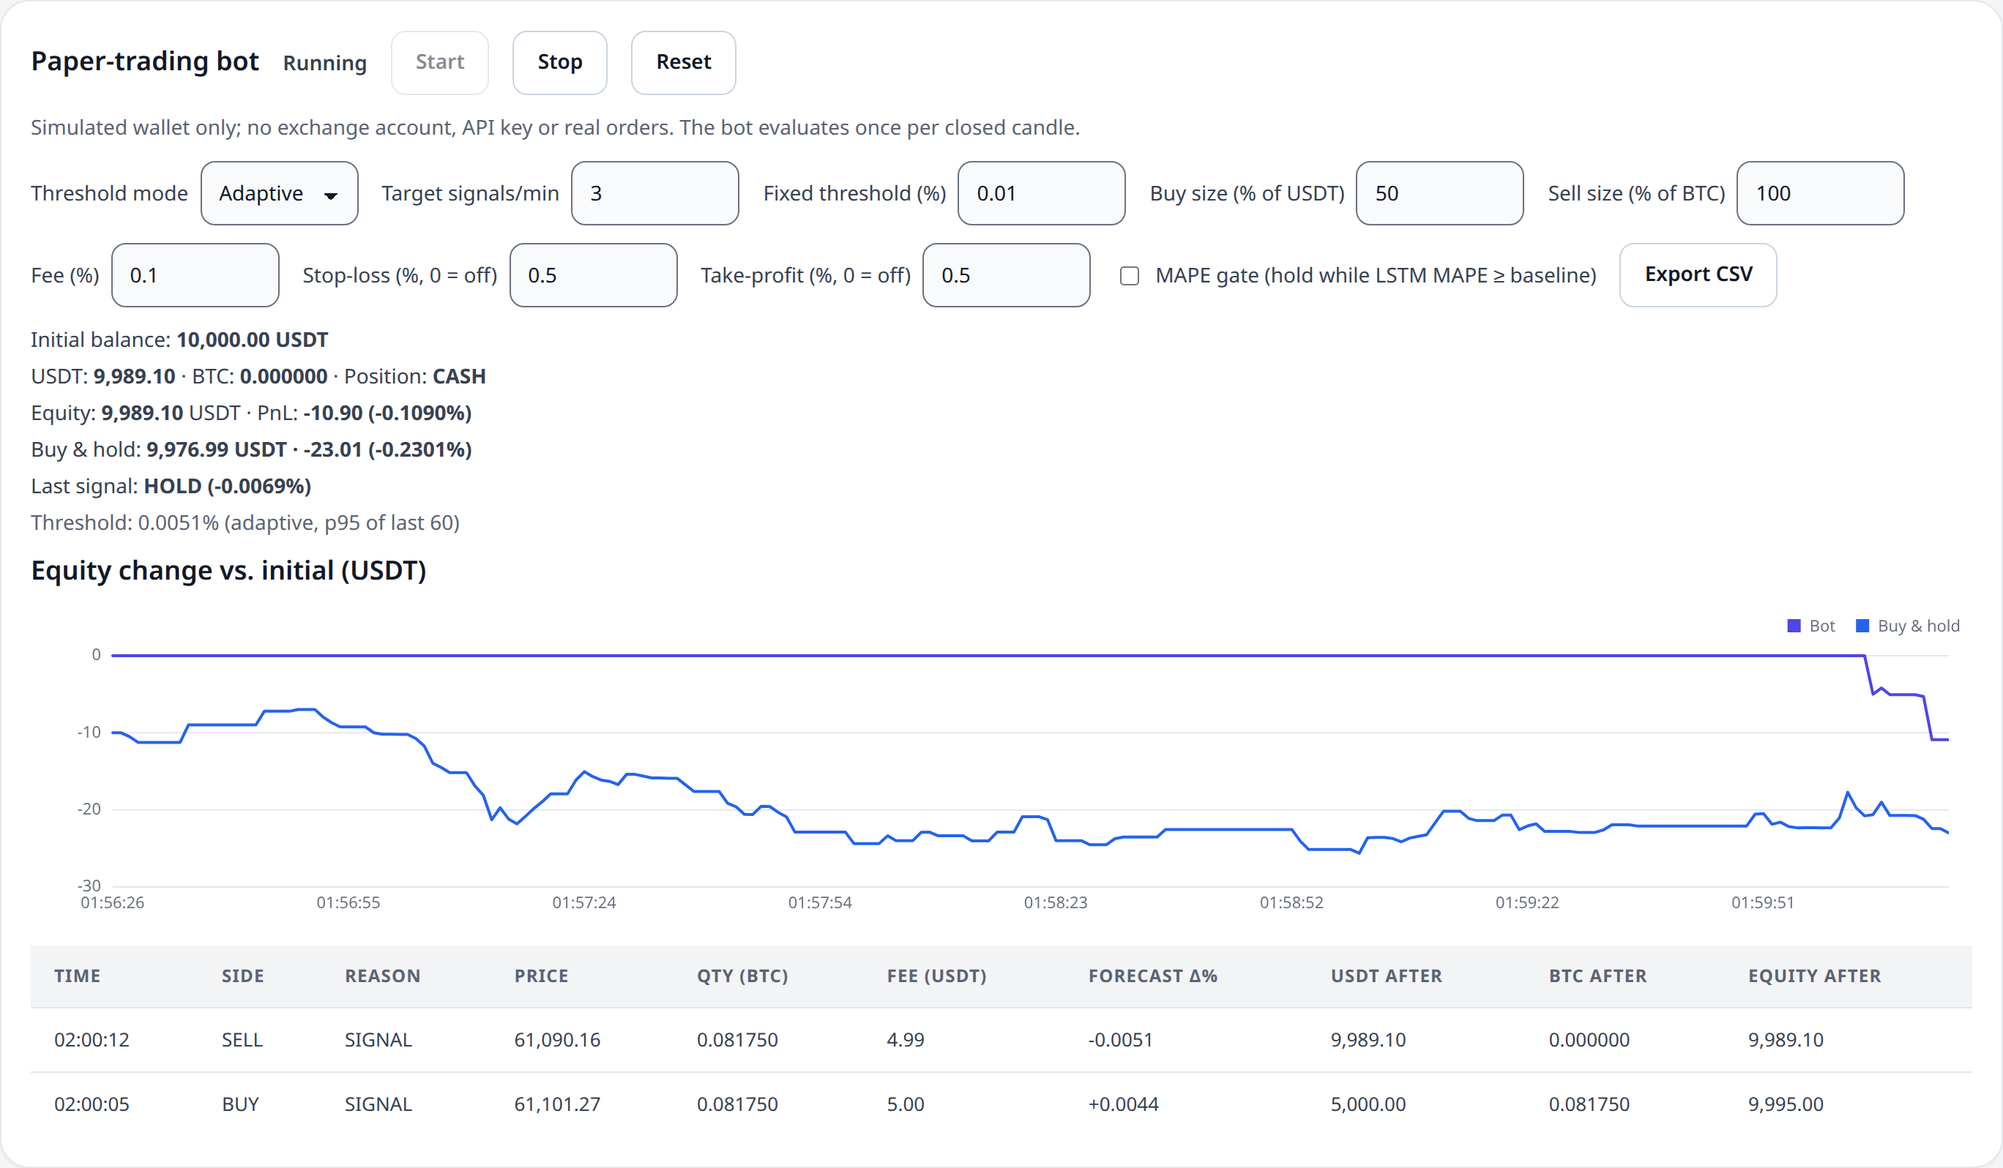
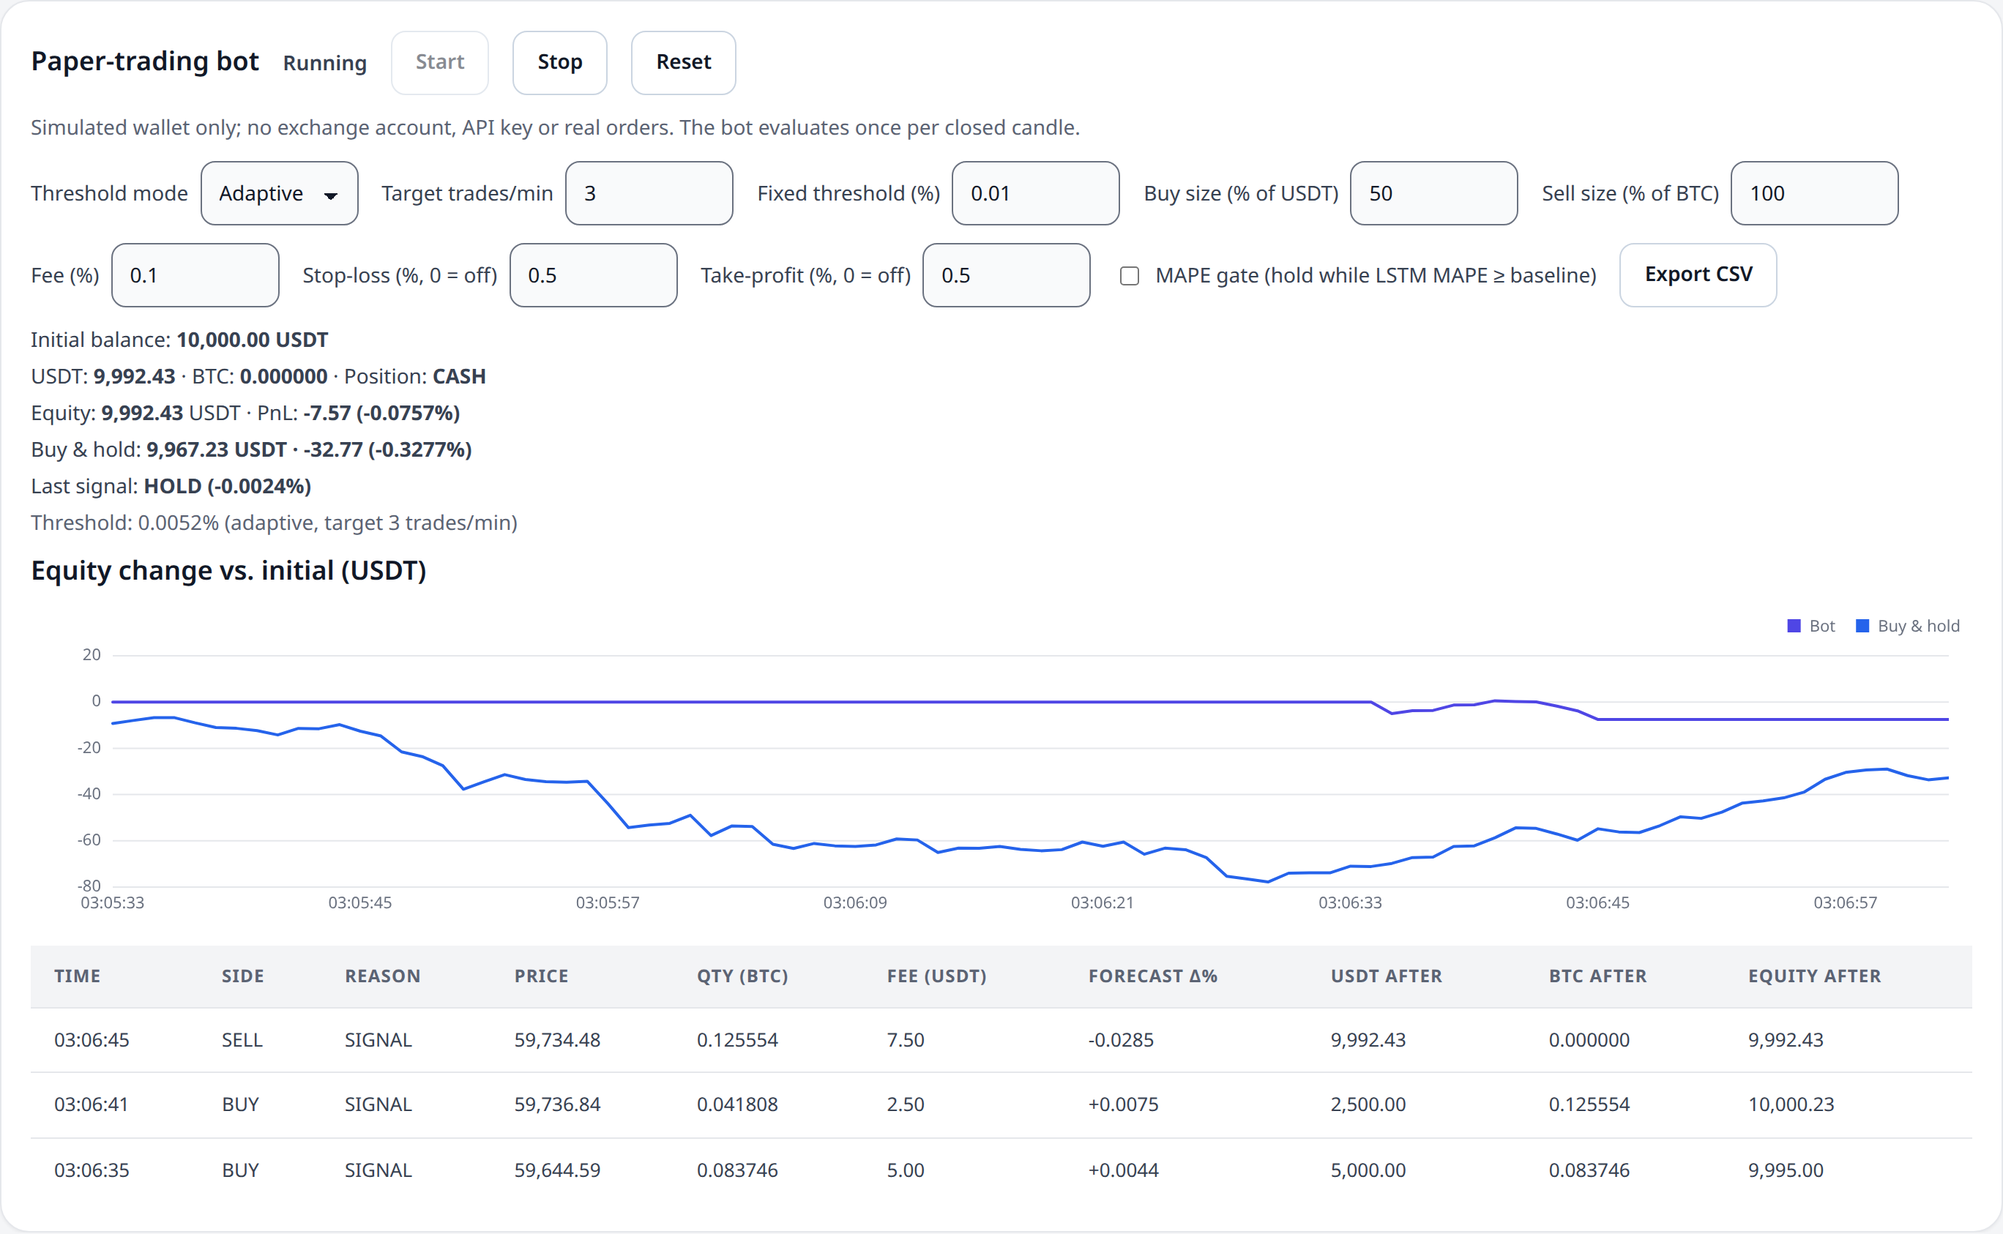
lstm-trading-bot: retake screenshots with trade-rate controller

diff --git a/lstm-trading-bot/README.md b/lstm-trading-bot/README.md
@@ -21,17 +21,19 @@ SELL  if changePct <  -threshold  and BTC * sell% * price >= 10 USDT
 HOLD  otherwise
 ```
 
-**Adaptive threshold (default).** On 1-second candles the forecast change is tiny: over a 150 s measurement `|changePct|` had p50 0.0010%, p75 0.0018%, p90 0.0038%, p95 0.0046% and a maximum of 0.0068%, so a fixed 0.01% never fires and no single fixed value holds a steady trade rate while volatility drifts. In *adaptive* mode the threshold is a rolling percentile of recent `|changePct|` values, chosen so that about `target` candles per minute exceed it:
+**Adaptive threshold (default).** On 1-second candles the forecast change is tiny: over a 150 s measurement `|changePct|` had p50 0.0010%, p75 0.0018%, p90 0.0038%, p95 0.0046% and a maximum of 0.0068%, so a fixed 0.01% never fires and no single fixed value holds a steady trade rate while volatility drifts. In *adaptive* mode the threshold `theta` is steered by a **feedback controller on the bot's actual trades** (a multiplicative stochastic-approximation update), so that about `target` trades per minute happen:
 
 ```
-candlesPerMinute = 60000 / intervalMs               // 1s -> 60, 1m -> 1
-quantile         = 1 - targetSignalsPerMin / candlesPerMinute
-quantile <= 0    -> threshold = 0                   // every candle may signal (BUY/SELL stay strict: > +t, < -t)
-otherwise        -> threshold = quantile of the last <= 60 |changePct| values
-                    (sorted ascending, index = floor(quantile * n), clamped to n - 1)
+candlesPerMinute = 60000 / intervalMs                    // 1s -> 60, 1m -> 1
+p                = min(1, targetTradesPerMin / candlesPerMinute)
+warm-up          : the first 20 evaluated candles use the fixed threshold and collect |changePct|
+init             : theta = p90 of the 20 samples (sorted ascending, index floor(0.9 * n)), or the fixed threshold if that is 0
+every candle     : decide with theta (BUY if changePct > theta, SELL if < -theta, same position and dust rules)
+                   traded = 1 if the candle produced any trade (SIGNAL, STOP_LOSS or TAKE_PROFIT), else 0
+                   theta  = clamp(theta * exp(0.3 * (traded - p)), 0.00001 %, 1 %)
 ```
 
-The threshold is computed from the window *before* the current candle's `|changePct|` is added. Warm-up: with fewer than 20 samples the fixed threshold applies (the live readout says "warming up n/20, using fixed"). Changing the timeframe clears the window, and Reset clears it too. In *fixed* mode the window is ignored. A signal is still only a trade when the wallet allows it (a SELL signal while holding no BTC is a HOLD), so trades per minute can be lower than signals per minute.
+A trade raises theta (fewer trades follow), a candle without a trade lowers it slightly, and the two balance where the trade probability per candle equals `p`. It targets *trades* rather than *signals* because a signal is only a trade when the wallet allows it (a SELL signal while holding no BTC is a HOLD, and a BUY is skipped once the free USDT is dust), so a signal-based percentile cannot hold a trade rate; feeding back the real outcome absorbs those effects and any drift in forecast scale or bias. While warming up the live readout says "warming up n/20, using fixed". Changing the timeframe or pressing Reset clears theta and the samples and goes back to warm-up. In *fixed* mode the controller is ignored.
 
 Orders execute at the latest closed candle price. BUY spends a percentage of free USDT, SELL sells a percentage of held BTC. The 10 USDT minimum order prevents dust orders after repeated 50% buys. A candle is evaluated once (keyed by its open time), even though `tick()` runs every second.
 
@@ -40,13 +42,14 @@ Orders execute at the latest closed candle price. BUY spends a percentage of fre
 | Parameter | Value used | Purpose & behavior |
 |---|---|---|
 | SYMBOL | `BTCUSDT` | Spot pair fetched from the public klines endpoint |
-| INTERVAL | `1s` default in the app; `1m` and `1s` tried in the test run (see Test Results) | Candle interval; shorter intervals give faster closed-candle trades |
+| INTERVAL | `1s` default in the app (the test run below used `1s`) | Candle interval; shorter intervals give faster closed-candle trades |
 | WINDOW / HORIZON | 20 candles / 20 steps | Past closed candles fed to the LSTM / future steps projected (the trade signal uses step 1) |
 | EPOCHS_PER_CANDLE / LR | 30 epochs / 0.005 | BPTT passes and learning rate run on every new closed candle |
 | Initial dummy balance | 10,000.00 USDT, 0 BTC | Starting virtual capital |
-| Threshold mode | adaptive | Percentile of recent `|changePct|` instead of a fixed value |
-| Target signals/min | 3 | Sets the quantile: `1 - 3 / candlesPerMinute` (0.95 on 1s candles) |
-| Adaptive window / warm-up | 60 candles / 20 samples | Rolling window size; below 20 samples the fixed threshold is used |
+| Threshold mode | adaptive | Feedback controller on the trade rate instead of a fixed value |
+| Target trades/min | 3 | Sets `p = min(1, 3 / candlesPerMinute)` = 0.05 per candle on 1s candles |
+| Warm-up / init | 20 candles / p90 of the samples | The first 20 candles use the fixed threshold and collect `|changePct|`; theta then starts at their p90 |
+| Controller gain / bounds | eta 0.3 / theta in [0.00001%, 1%] | `theta = clamp(theta * exp(0.3 * (traded - p)))` after each candle |
 | Fixed threshold | 0.01% | Used in fixed mode and as the warm-up fallback |
 | Trade size | BUY 50% of free USDT, SELL 100% of held BTC | Fixed-percentage order sizing |
 | Fee | 0.1% per order | Simulated taker fee, charged on every BUY and SELL |
@@ -72,7 +75,7 @@ Unit tests (Node 22+, no dependencies to install):
 npm test
 ```
 
-This runs `node --test tests/*.test.js` (54 tests covering the wallet, signal and adaptive-threshold logic, fees, risk exits, MAPE gate, input validation, persistence and CSV export).
+This runs `node --test tests/*.test.js` (57 tests covering the wallet, signal and adaptive-threshold logic, fees, risk exits, MAPE gate, input validation, persistence and CSV export).
 
 ## Test Results & Screenshots
 
@@ -92,24 +95,25 @@ The screenshots were produced by an automated headless Chromium run (fresh brows
 
 Initial state: ![Initial state](screenshots/0_Initial.png)
 
-**Setup.** The run used the shipped defaults with no override: **adaptive** threshold mode, target **3 signals/min**, fixed fallback 0.01%, the **1s** timeframe, 300 candles, window 20, buy 50%, sell 100%, fee 0.1%, SL 0.5%, TP 0.5%, MAPE gate off. The bot was started at 01:56:25 (UTC) and the screenshots were taken at about 02:00:16, after 3 min 51 s of running; the first BUY filled on the 02:00:05 candle and the SELL seven seconds later. The unrolled graph in screenshot 3 was captured well after page load, once the layout had settled. The readout in screenshot 1 reads "Threshold: 0.0051% (adaptive, p95 of last 60)": the 60-sample window was full and the 95th percentile of the last 60 forecast changes was 0.0051%.
+**Setup.** The run used the shipped defaults with no override: **adaptive** threshold mode, target **3 trades/min**, fixed fallback 0.01%, the **1s** timeframe, 300 candles, window 20, buy 50%, sell 100%, fee 0.1%, SL 0.5%, TP 0.5%, MAPE gate off. The bot was started at 03:05:33 (UTC) and the screenshots were taken at about 03:07:03, after 1 min 30 s of running; the first BUY filled on the 03:06:35 candle, the second BUY at 03:06:41 and the SELL at 03:06:45. The unrolled graph in screenshot 3 was captured well after page load, once the layout had settled. The readout in screenshot 1 reads "Threshold: 0.0052% (adaptive, target 3 trades/min)": the controller's current theta was 0.0052%.
 
-**Trade rate.** This run produced **2 trades in about 3.85 minutes (about 0.5 trades/min)**. Other 3-minute runs at the same defaults gave 0 trades, then 6 trades (1, 4 and 1 per minute, 2.0/min on average). The adaptive rule targets signals (3/min), not trades: a signal is only a trade when the wallet allows it (a SELL signal while holding no BTC is a HOLD), and the measured signal rate was about 2/min rather than 3 because the forecast change is autocorrelated and its scale drifts, so the trailing percentile is only a rough estimate. The rate therefore varies a lot between runs.
+**Trade rate.** The screenshot run produced **3 trades in the first 1.5 minutes (about 2.0 trades/min)**. Two separate 3-minute acceptance runs at the same defaults gave **10 trades (4, 3 and 3 per minute, 3.33/min)** and **9 trades (4, 4 and 1 per minute, 3.00/min)**, with no console errors. The first percentile-based version of the adaptive threshold only managed about 0.8 trades/min pooled over four runs (0, 6, 2 and 2 trades); see change 14. A seeded 3,600-candle simulation in the unit tests also holds 3.0 trades/min over the last 50 minutes.
 
 **Trades (newest first; time = candle close, UTC):**
 
 | Time | Side | Reason | Price | Qty (BTC) | Fee (USDT) | Forecast Δ% | USDT after | BTC after | Equity after |
 |---|---|---|---|---|---|---|---|---|---|
-| 02:00:12 | SELL | SIGNAL | 61,090.16 | 0.081750 | 4.99 | -0.0051 | 9,989.10 | 0.000000 | 9,989.10 |
-| 02:00:05 | BUY | SIGNAL | 61,101.27 | 0.081750 | 5.00 | +0.0044 | 5,000.00 | 0.081750 | 9,995.00 |
+| 03:06:45 | SELL | SIGNAL | 59,734.48 | 0.125554 | 7.50 | -0.0285 | 9,992.43 | 0.000000 | 9,992.43 |
+| 03:06:41 | BUY | SIGNAL | 59,736.84 | 0.041808 | 2.50 | +0.0075 | 2,500.00 | 0.125554 | 10,000.23 |
+| 03:06:35 | BUY | SIGNAL | 59,644.59 | 0.083746 | 5.00 | +0.0044 | 5,000.00 | 0.083746 | 9,995.00 |
 
-**Final readouts (as in the screenshots).** Status Running, USDT 9,989.10, BTC 0.000000, position CASH, equity **9,989.10**, PnL **-10.90 USDT (-0.1090%)**, last signal HOLD (-0.0069%), threshold 0.0051% (adaptive, p95 of last 60). Fees paid: 5.00 + 4.99 = **9.99 USDT**. The buy-and-hold benchmark stood at 9,976.99 USDT (**-23.01 USDT, -0.2301%**), so the bot was ahead of buy-and-hold by about 12.11 USDT. Over 222 predicted candles the LSTM MAPE was **0.006%** against **0.004%** for the repeat-last-close baseline. Last close 61,071.22 USDT.
+**Final readouts (as in the screenshots).** Status Running, USDT 9,992.43, BTC 0.000000, position CASH, equity **9,992.43**, PnL **-7.57 USDT (-0.0757%)**, last signal HOLD (-0.0024%), threshold 0.0052% (adaptive, target 3 trades/min). Fees paid: 5.00 + 2.50 + 7.50 = **15.00 USDT**. The buy-and-hold benchmark stood at 9,967.23 USDT (**-32.77 USDT, -0.3277%**), so the bot was ahead of buy-and-hold by about 25.20 USDT. Over 93 predicted candles the LSTM MAPE was **0.031%** against **0.025%** for the repeat-last-close baseline. Last close 59,867.21 USDT.
 
 **Analysis.**
-- The bot is mechanically correct: the BUY spent 50% of the free USDT (5,000.00) and paid a 0.1% fee on it (5.00), and the SELL emptied the BTC holding exactly to 0 and paid a 0.1% fee on the proceeds (4.99). Equity after the BUY is 9,995.00 (the entry fee), and after the SELL 9,989.10.
-- The SELL filled 11.11 USDT per BTC below the BUY (61,101.27 to 61,090.16), costing 0.91 USDT on 0.081750 BTC. Together with the two fees (9.99 USDT) this explains the whole loss of 10.90 USDT. The trades were triggered by forecast deltas of +0.0044% and -0.0051%, far below the 0.2% cost of a round trip at a 0.1% fee: the adaptive threshold controls how often the bot trades, not whether a trade is profitable, and at this scale every round trip loses to fees unless the price happens to move by more than about 0.2%.
-- The equity chart shows the bot line flat at 0 until the BUY, because an all-cash wallet has constant equity, then dropping by the entry fee and the exit loss. The bot beat buy-and-hold only because it sat in cash while BTC drifted down during the run (the price fell throughout the chart window); this is the direction of the market, not evidence of skill. A single two-trade run is not statistical evidence either way.
-- **Honest assessment of the model.** The LSTM is a single cell with 14 trainable parameters, trained online for 30 epochs on a few hundred 1-second or 1-minute returns. Its MAPE (0.006%) is *worse* than the trivial "next price = last close" baseline (0.004%), and the same pattern appeared in every other accuracy check taken during development (for example 0.011% vs 0.008%, 0.007% vs 0.004%, 0.004% vs 0.003%). At these horizons price changes are close to a random walk, so a forecast that does not beat the naive baseline carries no exploitable information; the 20-step forecast curve at the right of the price chart (a fall to 60,978.21) is an extrapolation of recent noise, and the BUY/SELL signals are essentially noise crossing a threshold that is by construction exceeded by about the top 5% of recent forecasts. A fixed 0.01% threshold would have kept the bot in HOLD (see the change list below), which would have avoided fees but also produced no trades to evaluate. Enabling the **MAPE gate** would have kept the bot out of the market in this run, because the LSTM did not beat the baseline. This is an educational demo, not a trading signal.
+- The bot is mechanically correct: the first BUY spent 50% of the free USDT (5,000.00, fee 5.00), the second BUY 50% of the remainder (2,500.00, fee 2.50), and the SELL emptied the 0.125554 BTC holding exactly to 0 and paid a 0.1% fee on the proceeds (7.50). Equity after the first BUY is 9,995.00 (the entry fee).
+- Price effect on the trades: the first BUY (0.083746 BTC) was sold 89.89 USDT per BTC higher (59,644.59 to 59,734.48), a gain of 7.53 USDT; the second BUY (0.041808 BTC) was sold 2.36 USDT per BTC lower, a loss of 0.10 USDT. The net price gain of 7.43 USDT is smaller than the fees of 15.00 USDT, which gives the PnL of -7.57 USDT. The trades were triggered by forecast deltas of +0.0044%, +0.0075% and -0.0285%, tiny against the 0.2% cost of a round trip at a 0.1% fee: the adaptive threshold controls how often the bot trades, not whether a trade is profitable, and a round trip only pays when the price happens to move by more than about 0.2% (here the 0.15% rise in 10 seconds was caught by the first BUY but still lost to fees).
+- The equity chart shows the bot line flat at 0 until the first BUY, because an all-cash wallet has constant equity, then following the BTC price while invested and flat again after the SELL. The bot beat buy-and-hold mainly because it sat in cash while BTC fell by about 0.3% earlier in the run; this is the direction of the market, not evidence of skill. A single three-trade run is not statistical evidence either way.
+- **Honest assessment of the model.** The LSTM is a single cell with 14 trainable parameters, trained online for 30 epochs on a few hundred 1-second or 1-minute returns. Its MAPE (0.031%) is *worse* than the trivial "next price = last close" baseline (0.025%), and the same pattern appeared in every other accuracy check taken during development (for example 0.011% vs 0.008%, 0.007% vs 0.004%, 0.004% vs 0.003%). At these horizons price changes are close to a random walk, so a forecast that does not beat the naive baseline carries no exploitable information; the 20-step forecast curve at the right of the price chart (a flat-to-down extrapolation to 59,863.88) is an extrapolation of recent noise, and the BUY/SELL signals are essentially noise crossing a threshold that the controller keeps lowering until about 3 trades per minute happen. A fixed 0.01% threshold would have kept the bot in HOLD (see the change list below), which would have avoided fees but also produced no trades to evaluate. Enabling the **MAPE gate** would have kept the bot out of the market in this run, because the LSTM did not beat the baseline. This is an educational demo, not a trading signal.
 
 ## Changes from the Provided Source Code & Why
 
@@ -136,7 +140,7 @@ The five reference files (`index.html`, `app.js`, `tiny-lstm.js`, `unroll-graph.
    * **Why**: Reuses the reference `trainAndForecast()` pipeline as the lab requires instead of duplicating it, with minimal edits to a reference file.
 
 6. **`package.json`, `tests/*.test.js`, `.gitignore` (new): verification**
-   * **Change**: `npm test` runs the Node test runner over 54 tests (wallet, bot, storage, CSV); `.gitignore` excludes `node_modules/`.
+   * **Change**: `npm test` runs the Node test runner over 57 tests (wallet, bot, storage, CSV); `.gitignore` excludes `node_modules/`.
    * **Why**: Proves the wallet and signal rules (dust, invalid input, duplicate candles, exact-zero sell, corrupt storage) without a browser.
 
 ### Innovations (beyond the lab requirements)
@@ -173,6 +177,6 @@ The five reference files (`index.html`, `app.js`, `tiny-lstm.js`, `unroll-graph.
 
 ### Adaptive threshold
 
-14. **`trading-bot.js`, `storage.js`, `bot-ui.js`, `index.html`, `app.js` (change): adaptive percentile threshold**
-    * **Change**: A new default threshold mode that sets the threshold to a rolling percentile of the last 60 `|changePct|` values so that about 3 candles per minute exceed it (quantile `1 - target / candlesPerMinute`), with a 20-sample warm-up that falls back to the fixed threshold. The window is cleared on a timeframe change and on Reset and is persisted. The panel gains a mode selector, a "Target signals/min" input, the renamed "Fixed threshold (%)" input and a live "Threshold: ..." readout. `app.js` passes `intervalMs` to the bot (one line).
-    * **Why**: Measured over 150 s on 1s candles, `|changePct|` had p50 0.0010%, p75 0.0018%, p90 0.0038%, p95 0.0046% and a maximum of 0.0068%, so the fixed default of 0.01% never fires and the earlier test run needed a hand-lowered threshold. No single fixed value holds a steady rate because the volatility drifts; a rolling percentile follows it.
+14. **`trading-bot.js`, `storage.js`, `bot-ui.js`, `index.html`, `app.js` (change): adaptive threshold with a trade-rate feedback controller**
+    * **Change**: A new default threshold mode. After a 20-candle warm-up on the fixed threshold, theta starts at the p90 of the collected `|changePct|` values and is then updated after every candle by `theta = clamp(theta * exp(0.3 * (traded - p)), 0.00001%, 1%)`, where `traded` is 1 when the candle produced any trade (signal, stop-loss or take-profit) and `p = min(1, targetTradesPerMin / candlesPerMinute)`. Theta, the warm-up samples and the interval are persisted and cleared on a timeframe change and on Reset. The panel gains a mode selector, a "Target trades/min" input, the renamed "Fixed threshold (%)" input and a live "Threshold: ..." readout. `app.js` passes `intervalMs` to the bot (one line), and `unroll-graph.js` raises the vertical fit margin from 40 to 80 so the lowest label of the unrolled graph is no longer clipped.
+    * **Why**: Measured over 150 s on 1s candles, `|changePct|` had p50 0.0010%, p75 0.0018%, p90 0.0038%, p95 0.0046% and a maximum of 0.0068%, so the fixed default of 0.01% never fires, and no single fixed value holds a steady rate because the volatility drifts. A first version used the rolling 95th percentile of the last 60 values (target 3 signals/min) and fell short: pooled over four 3-minute runs it made only 0.8 trades/min (0, 6, 2 and 2 trades). Causes: the quantile index `floor(0.95 * 60) = 57` leaves only 2 of 60 samples above the threshold, so it aimed at about 2 signals/min rather than 3 (measured: 5 exceedances in 148 candles); exceedances come in bursts because the forecast change is autocorrelated; and a signal is not a trade (a SELL signal without BTC is a HOLD, and a BUY is skipped once USDT is dust). Steering theta from the bot's actual trades removes all three effects. With it, two 3-minute runs at the shipped defaults gave 3.33 and 3.00 trades/min.
